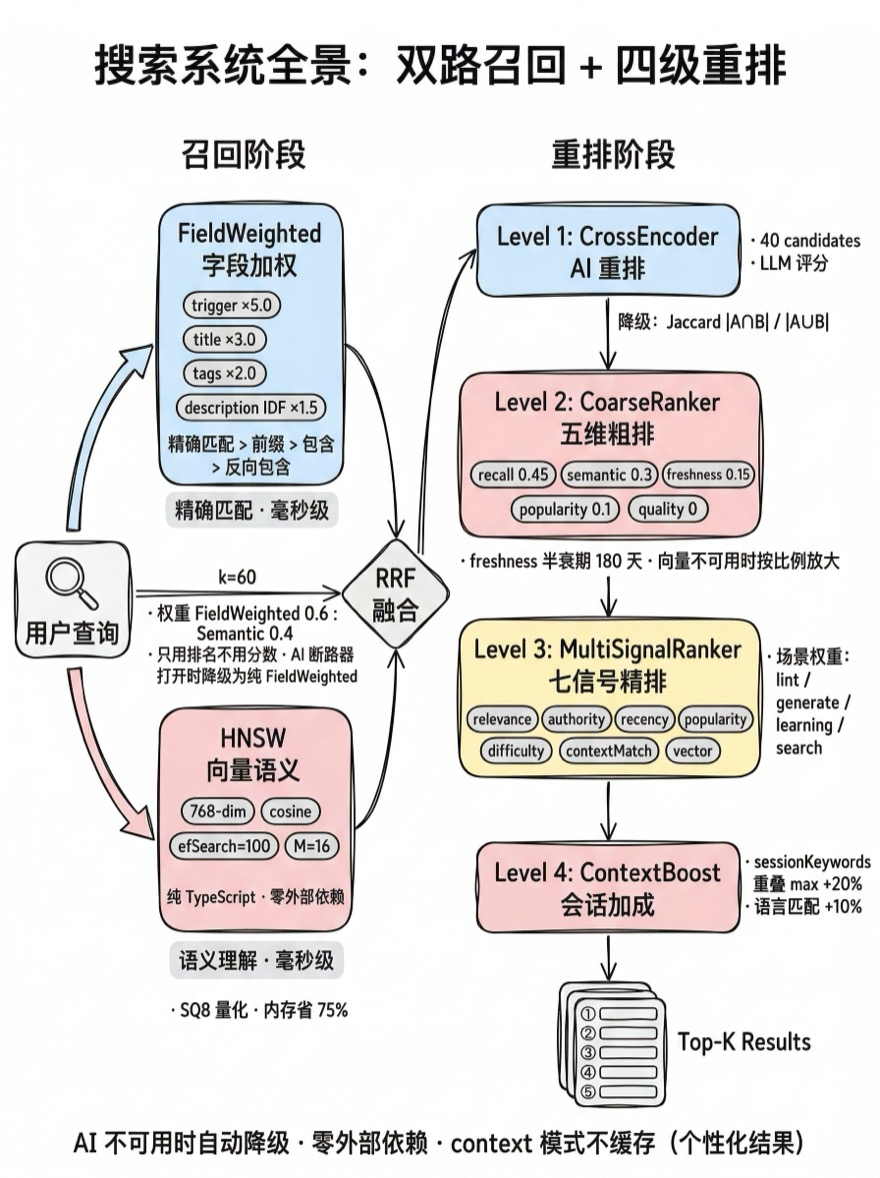
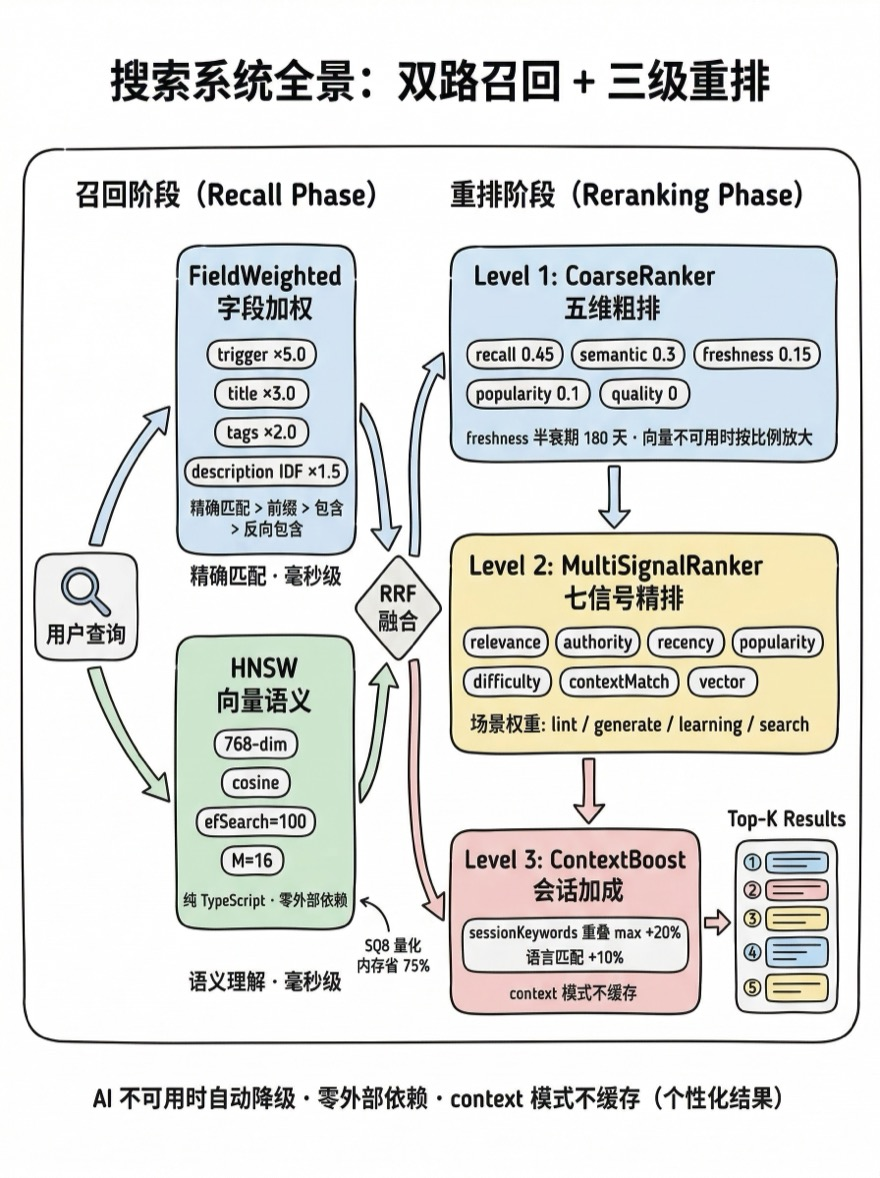
docs: 搜索管线从四级重排改为三级重排
移除 CrossEncoder AI 重排层级，Level 2-4 重编号为 Level 1-3：
- ch11-search: 更新架构描述和各级别编号
- ch17-mcp-delivery: 同步引用文字
- 更新搜索管线插图和对应 prompt

diff --git a/prompts/ch11/01-search-pipeline.md b/prompts/ch11/01-search-pipeline.md
@@ -1,4 +1,4 @@
-Title at top in bold Chinese: "搜索系统全景：双路召回 + 四级重排"
+Title at top in bold Chinese: "搜索系统全景：双路召回 + 三级重排"
 
 A left-to-right flow diagram showing the complete search pipeline, divided into two major phases.
 
@@ -22,27 +22,23 @@ Two lanes converge into a diamond shape labeled "RRF 融合":
   Sub-note: "只用排名不用分数 · AI 断路器打开时降级为纯 FieldWeighted"
 
 CENTER-RIGHT — "重排阶段" (Reranking Phase):
-Four vertically stacked boxes connected by downward arrows:
+Three vertically stacked boxes connected by downward arrows:
 
-Box 1 (pale purple): "Level 1: CrossEncoder AI 重排"
-  Annotation right: "· 40 candidates · LLM 评分"
-  Sub-note: "降级: Jaccard |A∩B| / |A∪B|"
-
-Box 2 (pale blue): "Level 2: CoarseRanker 五维粗排"
+Box 1 (pale blue): "Level 1: CoarseRanker 五维粗排"
   Five small pills inside: "recall 0.45", "semantic 0.3", "freshness 0.15", "popularity 0.1", "quality 0"
   Sub-note: "freshness 半衰期 180 天 · 向量不可用时按比例放大"
 
-Box 3 (pale yellow): "Level 3: MultiSignalRanker 七信号精排"
+Box 2 (pale yellow): "Level 2: MultiSignalRanker 七信号精排"
   Seven small pills in two rows:
     Row 1: "relevance", "authority", "recency", "popularity"
     Row 2: "difficulty", "contextMatch", "vector"
   Annotation on right: "场景权重: lint / generate / learning / search"
 
-Box 4 (pale pink): "Level 4: ContextBoost 会话加成"
+Box 3 (pale pink): "Level 3: ContextBoost 会话加成"
   Annotation: "sessionKeywords 重叠 max +20% · 语言匹配 +10%"
   Sub-note: "context 模式不缓存"
 
 RIGHT SIDE — "输出":
-An arrow from the bottom of Level 4 to a result list showing "Top-K Results" with 5 result cards ranked ①②③④⑤.
+An arrow from the bottom of Level 3 to a result list showing "Top-K Results" with 5 result cards ranked ①②③④⑤.
 
 BOTTOM annotation: "AI 不可用时自动降级 · 零外部依赖 · context 模式不缓存（个性化结果）"

diff --git a/docs/part6/ch17-mcp-delivery.md b/docs/part6/ch17-mcp-delivery.md
@@ -456,7 +456,7 @@ McpServer._handleToolCall('autosnippet_search', {query, mode})
   → _gatewayGate()：搜索是只读操作，不在 TOOL_GATEWAY_MAP 中，直接放行
   → _resolveHandler()：映射到 consolidated.consolidatedSearch()
   → consolidatedSearch()：mode='auto' 路由到 searchHandlers.search()
-  → SearchEngine：三路召回 + RRF 融合 + 四级重排
+  → SearchEngine：三路召回 + RRF 融合 + 三级重排
   → 返回 Top-5 Recipe，序列化为 JSON
 ← Agent 获得精准的 Cookie 管理模式描述
 ```
